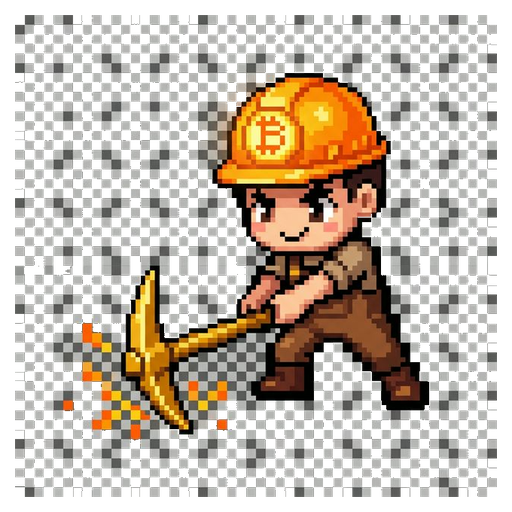
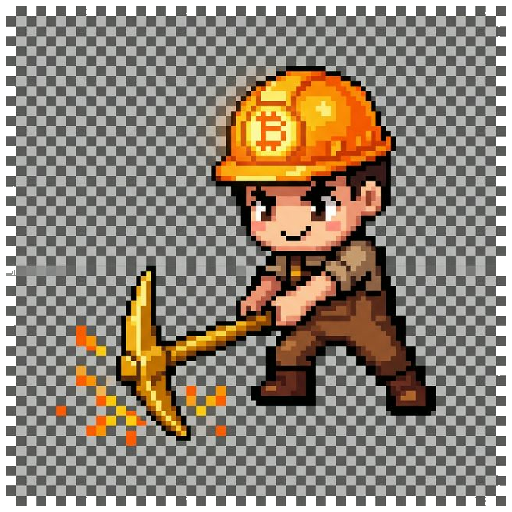
fix: miner sprites transparency

diff --git a/scripts/test-crop2.py b/scripts/test-crop2.py
@@ -1,0 +1,67 @@
+from PIL import Image
+import numpy as np
+
+def clean_sprite(input_path, output_path, is_rig=False):
+    img = Image.open(input_path).convert('RGBA')
+    arr = np.array(img)
+    
+    # 1. Base Crop
+    if 'idle' in input_path:
+        top, bot, left, right = 80, 480, 50, 590
+    elif 'hit' in input_path:
+        top, bot, left, right = 0, 640, 0, 640
+    elif is_rig:
+        top, bot, left, right = 0, 520, 0, 640
+        
+    cropped = arr[top:bot, left:right].copy()
+    
+    # 2. Precise color-based background removal
+    r = cropped[:,:,0].astype(int)
+    g = cropped[:,:,1].astype(int)
+    b = cropped[:,:,2].astype(int)
+    
+    # Background gradient in all images is mostly very dark or dark blue/grey
+    # We want to KEEP the yellow/orange/brown/white character pixels
+    
+    if is_rig:
+        # Rig has a more uniform dark grey background
+        # Bg is mostly r,g,b < 60 and relatively low variance between channels
+        variance = np.var([r, g, b], axis=0)
+        bg_mask = (r < 65) & (g < 65) & (b < 65) & (variance < 100)
+    else:
+        # Miner has a dark blue/grey background
+        # Let's target pixels where Blue is dominant OR pixels are very dark
+        is_very_dark = (r < 30) & (g < 30) & (b < 30)
+        is_blue_bg = (b > r) & (b >= g) & (b < 100)
+        is_grey_bg = (r < 75) & (g < 75) & (b < 95) & (np.abs(r-g) < 15)
+        
+        bg_mask = is_very_dark | is_blue_bg | is_grey_bg
+        
+    cropped[bg_mask, 3] = 0
+    
+    # 3. Find bounding box of remaining pixels
+    alpha = cropped[:, :, 3]
+    rows = np.any(alpha > 0, axis=1)
+    cols = np.any(alpha > 0, axis=0)
+    
+    if np.any(rows):
+        rmin, rmax = np.where(rows)[0][[0, -1]]
+        cmin, cmax = np.where(cols)[0][[0, -1]]
+        tight = Image.fromarray(cropped[rmin:rmax+1, cmin:cmax+1])
+        
+        # 4. Center on 512x512
+        tw, th = tight.size
+        side = max(tw, th) + 30
+        canvas = Image.new('RGBA', (side, side), (0, 0, 0, 0))
+        canvas.paste(tight, ((side-tw)//2, (side-th)//2), tight)
+        
+        # Use NEAREST to preserve pixel art look, but since it's already "pixel art"
+        # that was likely upscaled, LANCZOS might be safer for arbitrary resize.
+        # But let's stick to NEAREST if we want pure pixels.
+        canvas = canvas.resize((512, 512), Image.NEAREST)
+        canvas.save(output_path)
+        print(f"Saved {output_path}")
+
+clean_sprite('scripts/temp/miner-idle-orig.png', 'scripts/temp/miner-idle-test.png')
+clean_sprite('scripts/temp/miner-hit-orig.png', 'scripts/temp/miner-hit-test.png')
+clean_sprite('scripts/temp/mining-rig-orig.png', 'scripts/temp/mining-rig-test.png', is_rig=True)

diff --git a/scripts/final-crop.py b/scripts/final-crop.py
@@ -1,0 +1,74 @@
+from PIL import Image
+import numpy as np
+
+def mask_from_magic_wand(img_array, tolerance=30):
+    # Just grab top-left color
+    tl = img_array[0,0][:3].astype(int)
+    
+    r = img_array[:,:,0].astype(int)
+    g = img_array[:,:,1].astype(int)
+    b = img_array[:,:,2].astype(int)
+    
+    diff = np.abs(r-tl[0]) + np.abs(g-tl[1]) + np.abs(b-tl[2])
+    return diff < tolerance * 3
+
+def extract_sprite(input_path, output_path, crop_box=None):
+    img = Image.open(input_path).convert('RGBA')
+    arr = np.array(img)
+    
+    if crop_box:
+        t, b, l, r = crop_box
+        cropped = arr[t:b, l:r].copy()
+    else:
+        cropped = arr.copy()
+        
+    bg_mask = mask_from_magic_wand(cropped, tolerance=35)
+    
+    # We want to do a proper flood fill to avoid removing internal colors
+    from collections import deque
+    h, w = cropped.shape[:2]
+    visited = np.zeros((h, w), dtype=bool)
+    mask = np.zeros((h, w), dtype=bool)
+    q = deque()
+    
+    # Add borders
+    for x in range(w): q.extend([(x,0), (x,h-1)])
+    for y in range(h): q.extend([(0,y), (w-1,y)])
+    
+    for x,y in q: visited[y,x] = True
+        
+    seed = cropped[0,0][:3].astype(int)
+    
+    while q:
+        x, y = q.popleft()
+        px = cropped[y,x][:3].astype(int)
+        if np.abs(px - seed).max() < 40:
+            mask[y,x] = True
+            for dx, dy in [(0,1),(0,-1),(1,0),(-1,0)]:
+                nx, ny = x+dx, y+dy
+                if 0<=nx<w and 0<=ny<h and not visited[ny,nx]:
+                    visited[ny,nx] = True
+                    q.append((nx,ny))
+                    
+    cropped[mask, 3] = 0
+    
+    alpha = cropped[:,:,3]
+    rows = np.any(alpha > 0, axis=1)
+    cols = np.any(alpha > 0, axis=0)
+    
+    if np.any(rows):
+        rmin, rmax = np.where(rows)[0][[0, -1]]
+        cmin, cmax = np.where(cols)[0][[0, -1]]
+        tight = Image.fromarray(cropped[rmin:rmax+1, cmin:cmax+1])
+        
+        tw, th = tight.size
+        side = max(tw, th) + 16
+        canvas = Image.new('RGBA', (side, side), (0, 0, 0, 0))
+        canvas.paste(tight, ((side-tw)//2, (side-th)//2), tight)
+        canvas = canvas.resize((512, 512), Image.NEAREST)
+        canvas.save(output_path)
+        print(f"Saved {output_path}")
+
+extract_sprite('scripts/temp/miner-idle-orig.png', 'public/miner-idle.png', crop_box=(80, 480, 50, 590))
+extract_sprite('scripts/temp/miner-hit-orig.png', 'public/miner-hit.png')
+extract_sprite('scripts/temp/mining-rig-orig.png', 'public/mining-rig.png', crop_box=(0, 520, 0, 640))

diff --git a/scripts/test-crop.py b/scripts/test-crop.py
@@ -1,0 +1,59 @@
+from PIL import Image
+import numpy as np
+
+def process_idle():
+    img = Image.open('scripts/temp/miner-idle-orig.png').convert('RGBA')
+    arr = np.array(img)
+    h, w = arr.shape[:2]
+    
+    # 1. Base crop to remove text and bottom sprites
+    # Main character is roughly y=80..480, x=50..590
+    top, bot = 80, 480
+    left, right = 50, 590
+    cropped = arr[top:bot, left:right].copy()
+    
+    # 2. Precise color-based background removal
+    # Instead of flood fill, the background is a dark bluish gradient.
+    # The character is mostly light brown/orange/yellow/white.
+    # Let's remove pixels where Blue channel is dominant and overall brightness is low.
+    r, g, b = cropped[:,:,0], cropped[:,:,1], cropped[:,:,2]
+    
+    # Background is mostly: R < 70, G < 70, B > R and B > G
+    # Or very dark pixels (R,G,B < 25)
+    is_dark = (r < 25) & (g < 25) & (b < 25)
+    is_blue_bg = (b > r) & (b > g) & (b < 100)
+    
+    # Also remove some artifact speckles (isolated pixels)
+    # We can just use a simple threshold for the background gradient
+    brightness = r.astype(int) + g.astype(int) + b.astype(int)
+    is_bg = brightness < 150  # adjust this threshold
+    
+    # Let's try a different approach: the background is a smooth gradient.
+    # We can detect edges using Sobel, but simpler:
+    # Just mask out the specific background colors.
+    
+    # For now, let's just make the known dark/blue background transparent
+    bg_mask = (r < 60) & (g < 60) & (b < 90)
+    
+    cropped[bg_mask, 3] = 0
+    
+    # 3. Find bounding box of remaining pixels
+    alpha = cropped[:, :, 3]
+    rows = np.any(alpha > 0, axis=1)
+    cols = np.any(alpha > 0, axis=0)
+    
+    if np.any(rows):
+        rmin, rmax = np.where(rows)[0][[0, -1]]
+        cmin, cmax = np.where(cols)[0][[0, -1]]
+        tight = Image.fromarray(cropped[rmin:rmax+1, cmin:cmax+1])
+        
+        # 4. Center on 512x512
+        tw, th = tight.size
+        side = max(tw, th) + 20
+        canvas = Image.new('RGBA', (side, side), (0, 0, 0, 0))
+        canvas.paste(tight, ((side-tw)//2, (side-th)//2), tight)
+        canvas = canvas.resize((512, 512), Image.NEAREST) # Use NEAREST for pixel art
+        canvas.save('scripts/temp/miner-idle-test.png')
+        print("Saved scripts/temp/miner-idle-test.png")
+
+process_idle()
